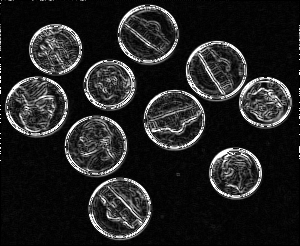
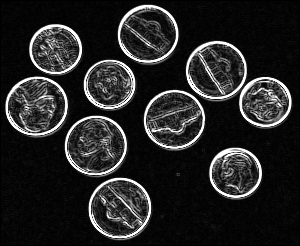
fix: functions

diff --git a/src/operations.cpp b/src/operations.cpp
@@ -6,13 +6,20 @@
 void calcularRx(const cv::Mat& I, cv::Mat& Rx) {
     int M = I.rows;
     int N = I.cols;
+    int sum;
 
     for (int i = 1; i < M - 1; ++i) {
         for (int j = 1; j < N - 1; ++j) {
-            Rx.at<uchar>(i, j) = static_cast<uchar>(std::abs(
-                (I.at<uchar>(i+1, j-1) + I.at<uchar>(i+1, j) + I.at<uchar>(i+1, j+1)) -
-                (I.at<uchar>(i-1, j-1) + I.at<uchar>(i-1, j) + I.at<uchar>(i-1, j+1))
-            ));
+            sum = (I.at<uchar>(i+1, j-1) + I.at<uchar>(i+1, j) + I.at<uchar>(i+1, j+1)) -
+                (I.at<uchar>(i-1, j-1) + I.at<uchar>(i-1, j) + I.at<uchar>(i-1, j+1));
+            
+            // Calcula o valor absoluto do gradiente
+            sum = std::abs(sum);
+
+            // Garante que o valor esteja no intervalo [0, 255]
+            sum = std::min(sum, 255);
+
+            Rx.at<uchar>(i, j) = static_cast<uchar>(sum);
         }
     }
 }
@@ -21,13 +28,20 @@ void calcularRx(const cv::Mat& I, cv::Mat& Rx) {
 void calcularRy(const cv::Mat& I, cv::Mat& Ry) {
     int M = I.rows;
     int N = I.cols;
+    int sum;
 
     for (int i = 1; i < M - 1; ++i) {
         for (int j = 1; j < N - 1; ++j) {
-            Ry.at<uchar>(i, j) = static_cast<uchar>(std::abs(
-                (I.at<uchar>(i-1, j+1) + I.at<uchar>(i, j+1) + I.at<uchar>(i+1, j+1)) -
-                (I.at<uchar>(i-1, j-1) + I.at<uchar>(i, j-1) + I.at<uchar>(i+1, j-1))
-            ));
+            sum = (I.at<uchar>(i-1, j+1) + I.at<uchar>(i, j+1) + I.at<uchar>(i+1, j+1)) -
+                (I.at<uchar>(i-1, j-1) + I.at<uchar>(i, j-1) + I.at<uchar>(i+1, j-1));
+            
+            // Calcula o valor absoluto do gradiente
+            sum = std::abs(sum);
+
+            // Garante que o valor esteja no intervalo [0, 255]
+            sum = std::min(sum, 255);
+
+            Ry.at<uchar>(i, j) = static_cast<uchar>(sum);
         }
     }
 }

diff --git a/src/main.cpp b/src/main.cpp
@@ -49,10 +49,10 @@ int main() {
     int rows = image.rows;
     int cols = image.cols;
 
-    // Matrizes para Rx, Ry e R
-    Mat Rx(rows, cols, CV_8UC1);
-    Mat Ry(rows, cols, CV_8UC1);
-    Mat R(rows, cols, CV_8UC1);
+    // Inicializa as matrizes Rx, Ry e R com as dimensões da imagem
+    Mat Rx = cv::Mat::zeros(rows, cols, CV_8UC1); // 8U -> uint de 8bits, C1 -> 1 canal (grayscale)
+    Mat Ry = cv::Mat::zeros(rows, cols, CV_8UC1);
+    Mat R = cv::Mat::zeros(rows, cols, CV_8UC1);
 
     // Processo filho para calcular Rx
     pid_t pidRx = fork();
